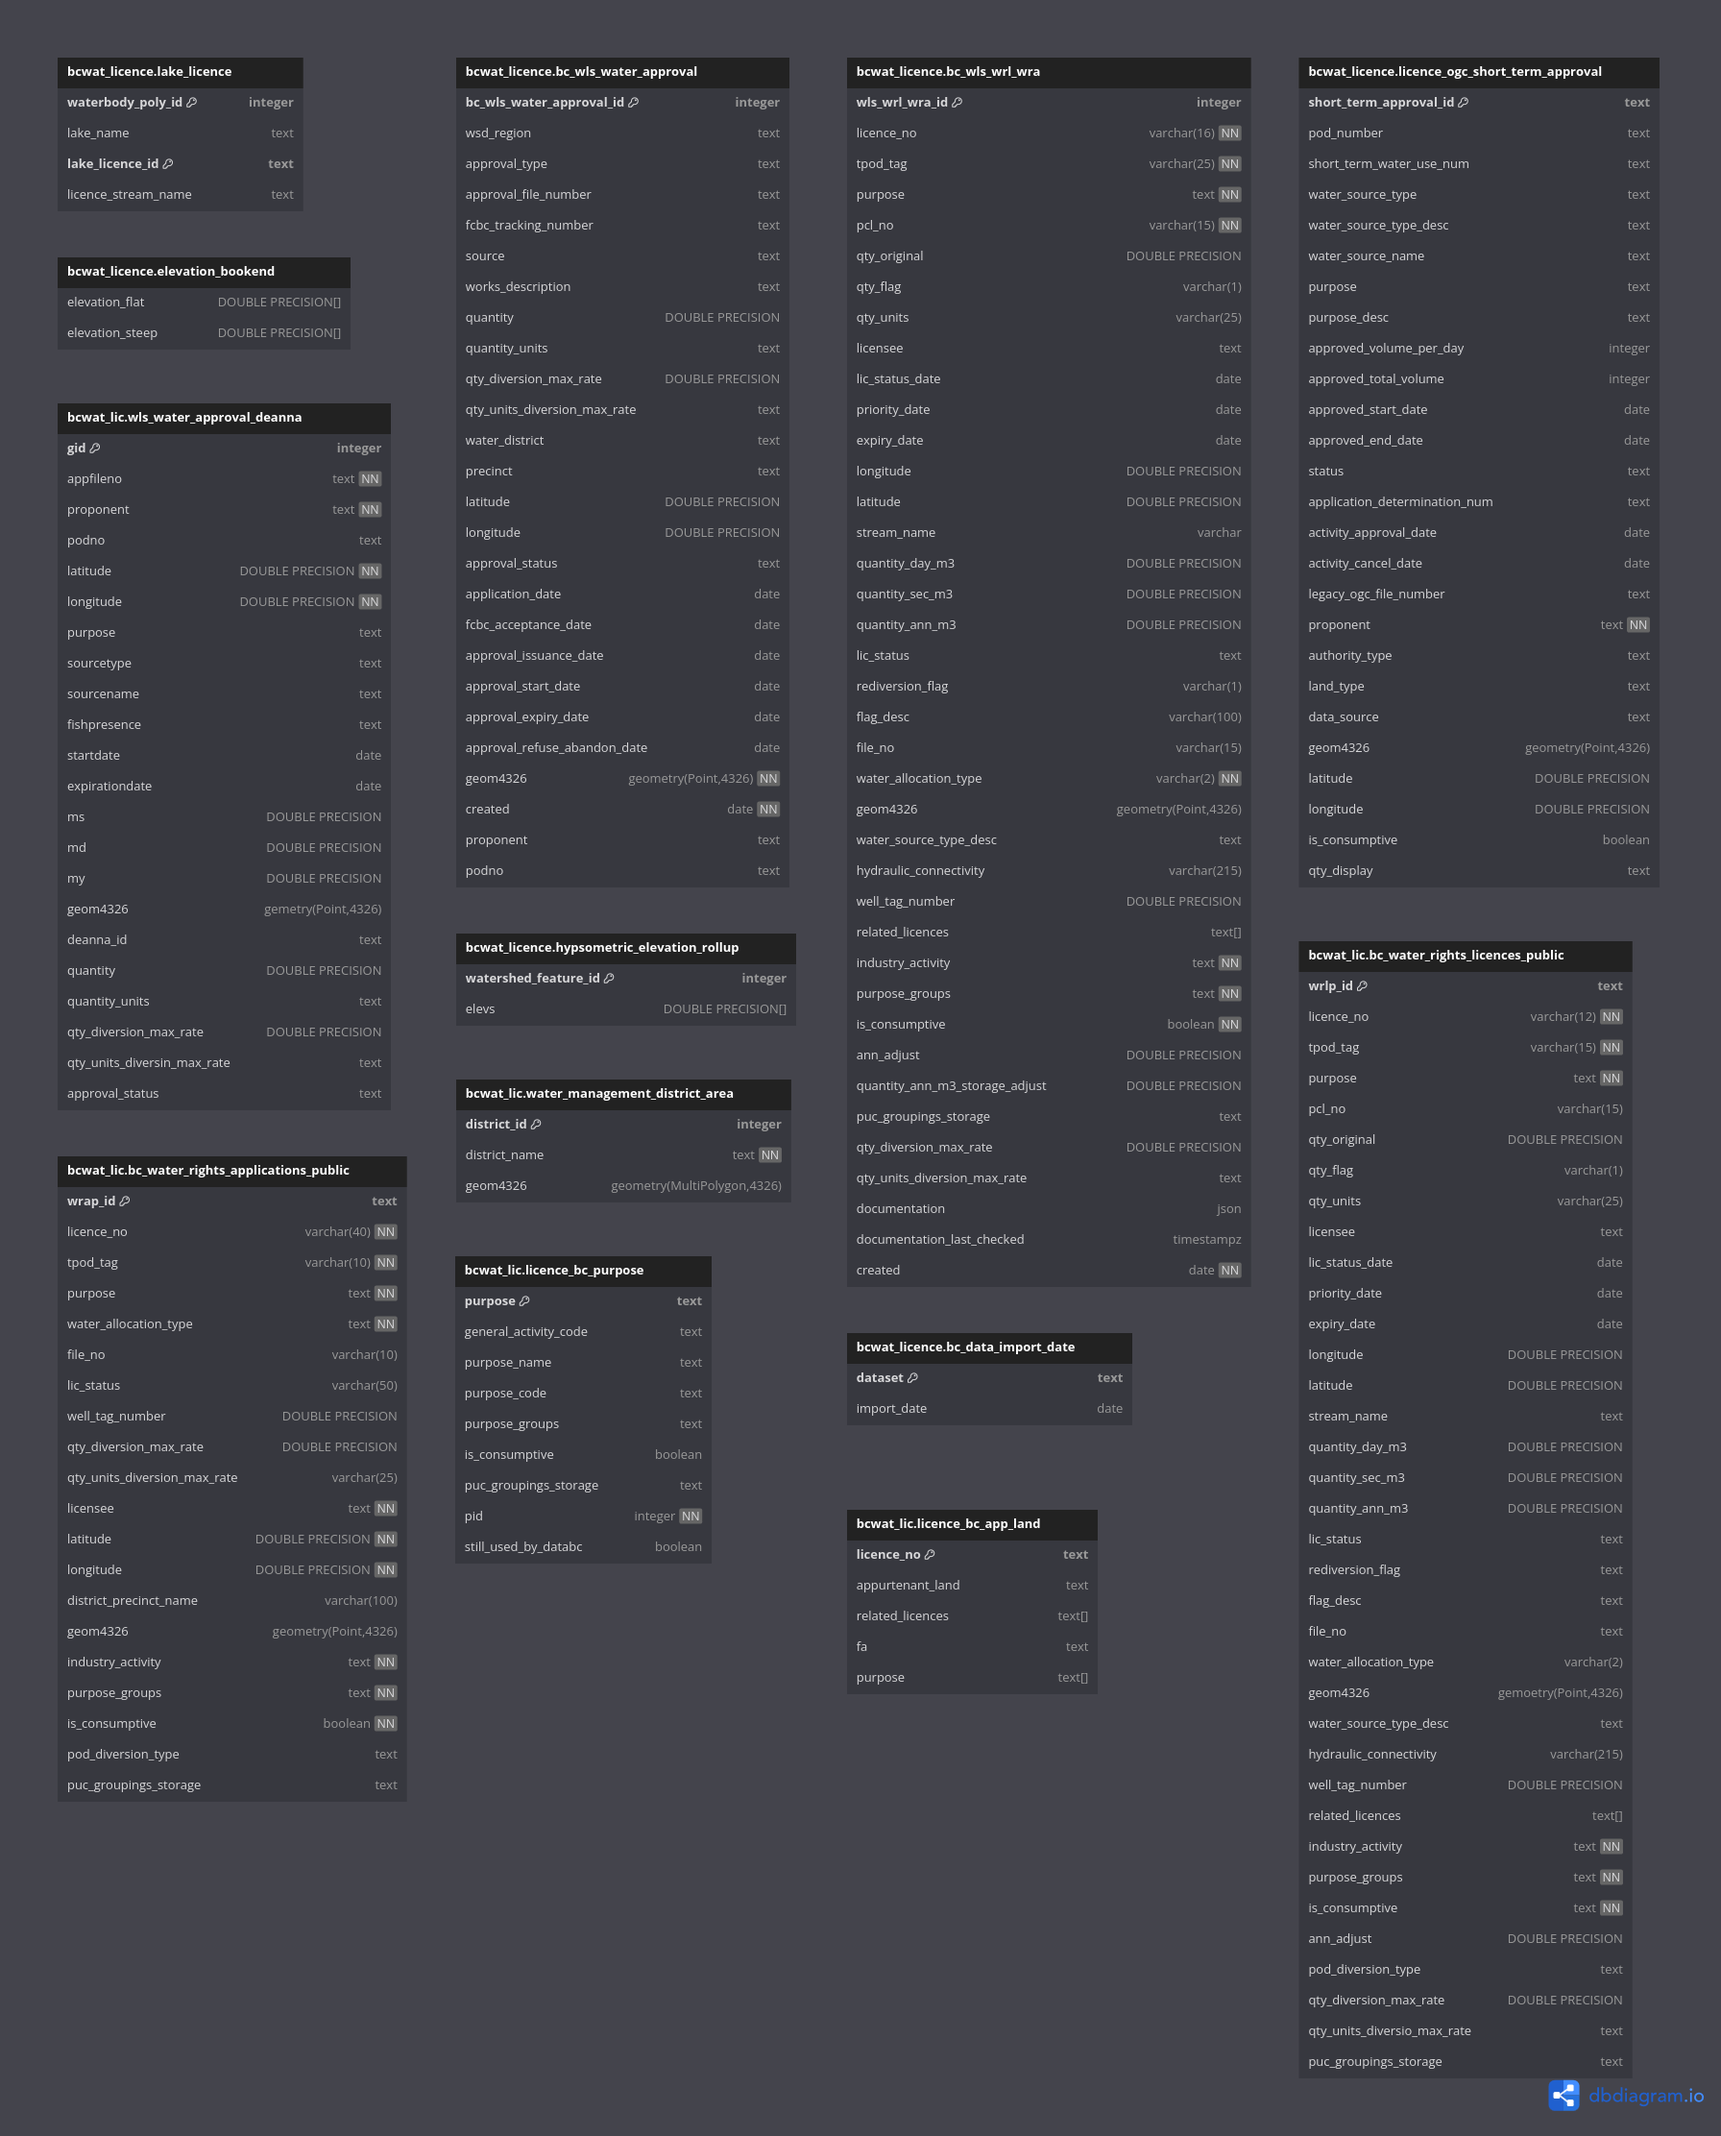
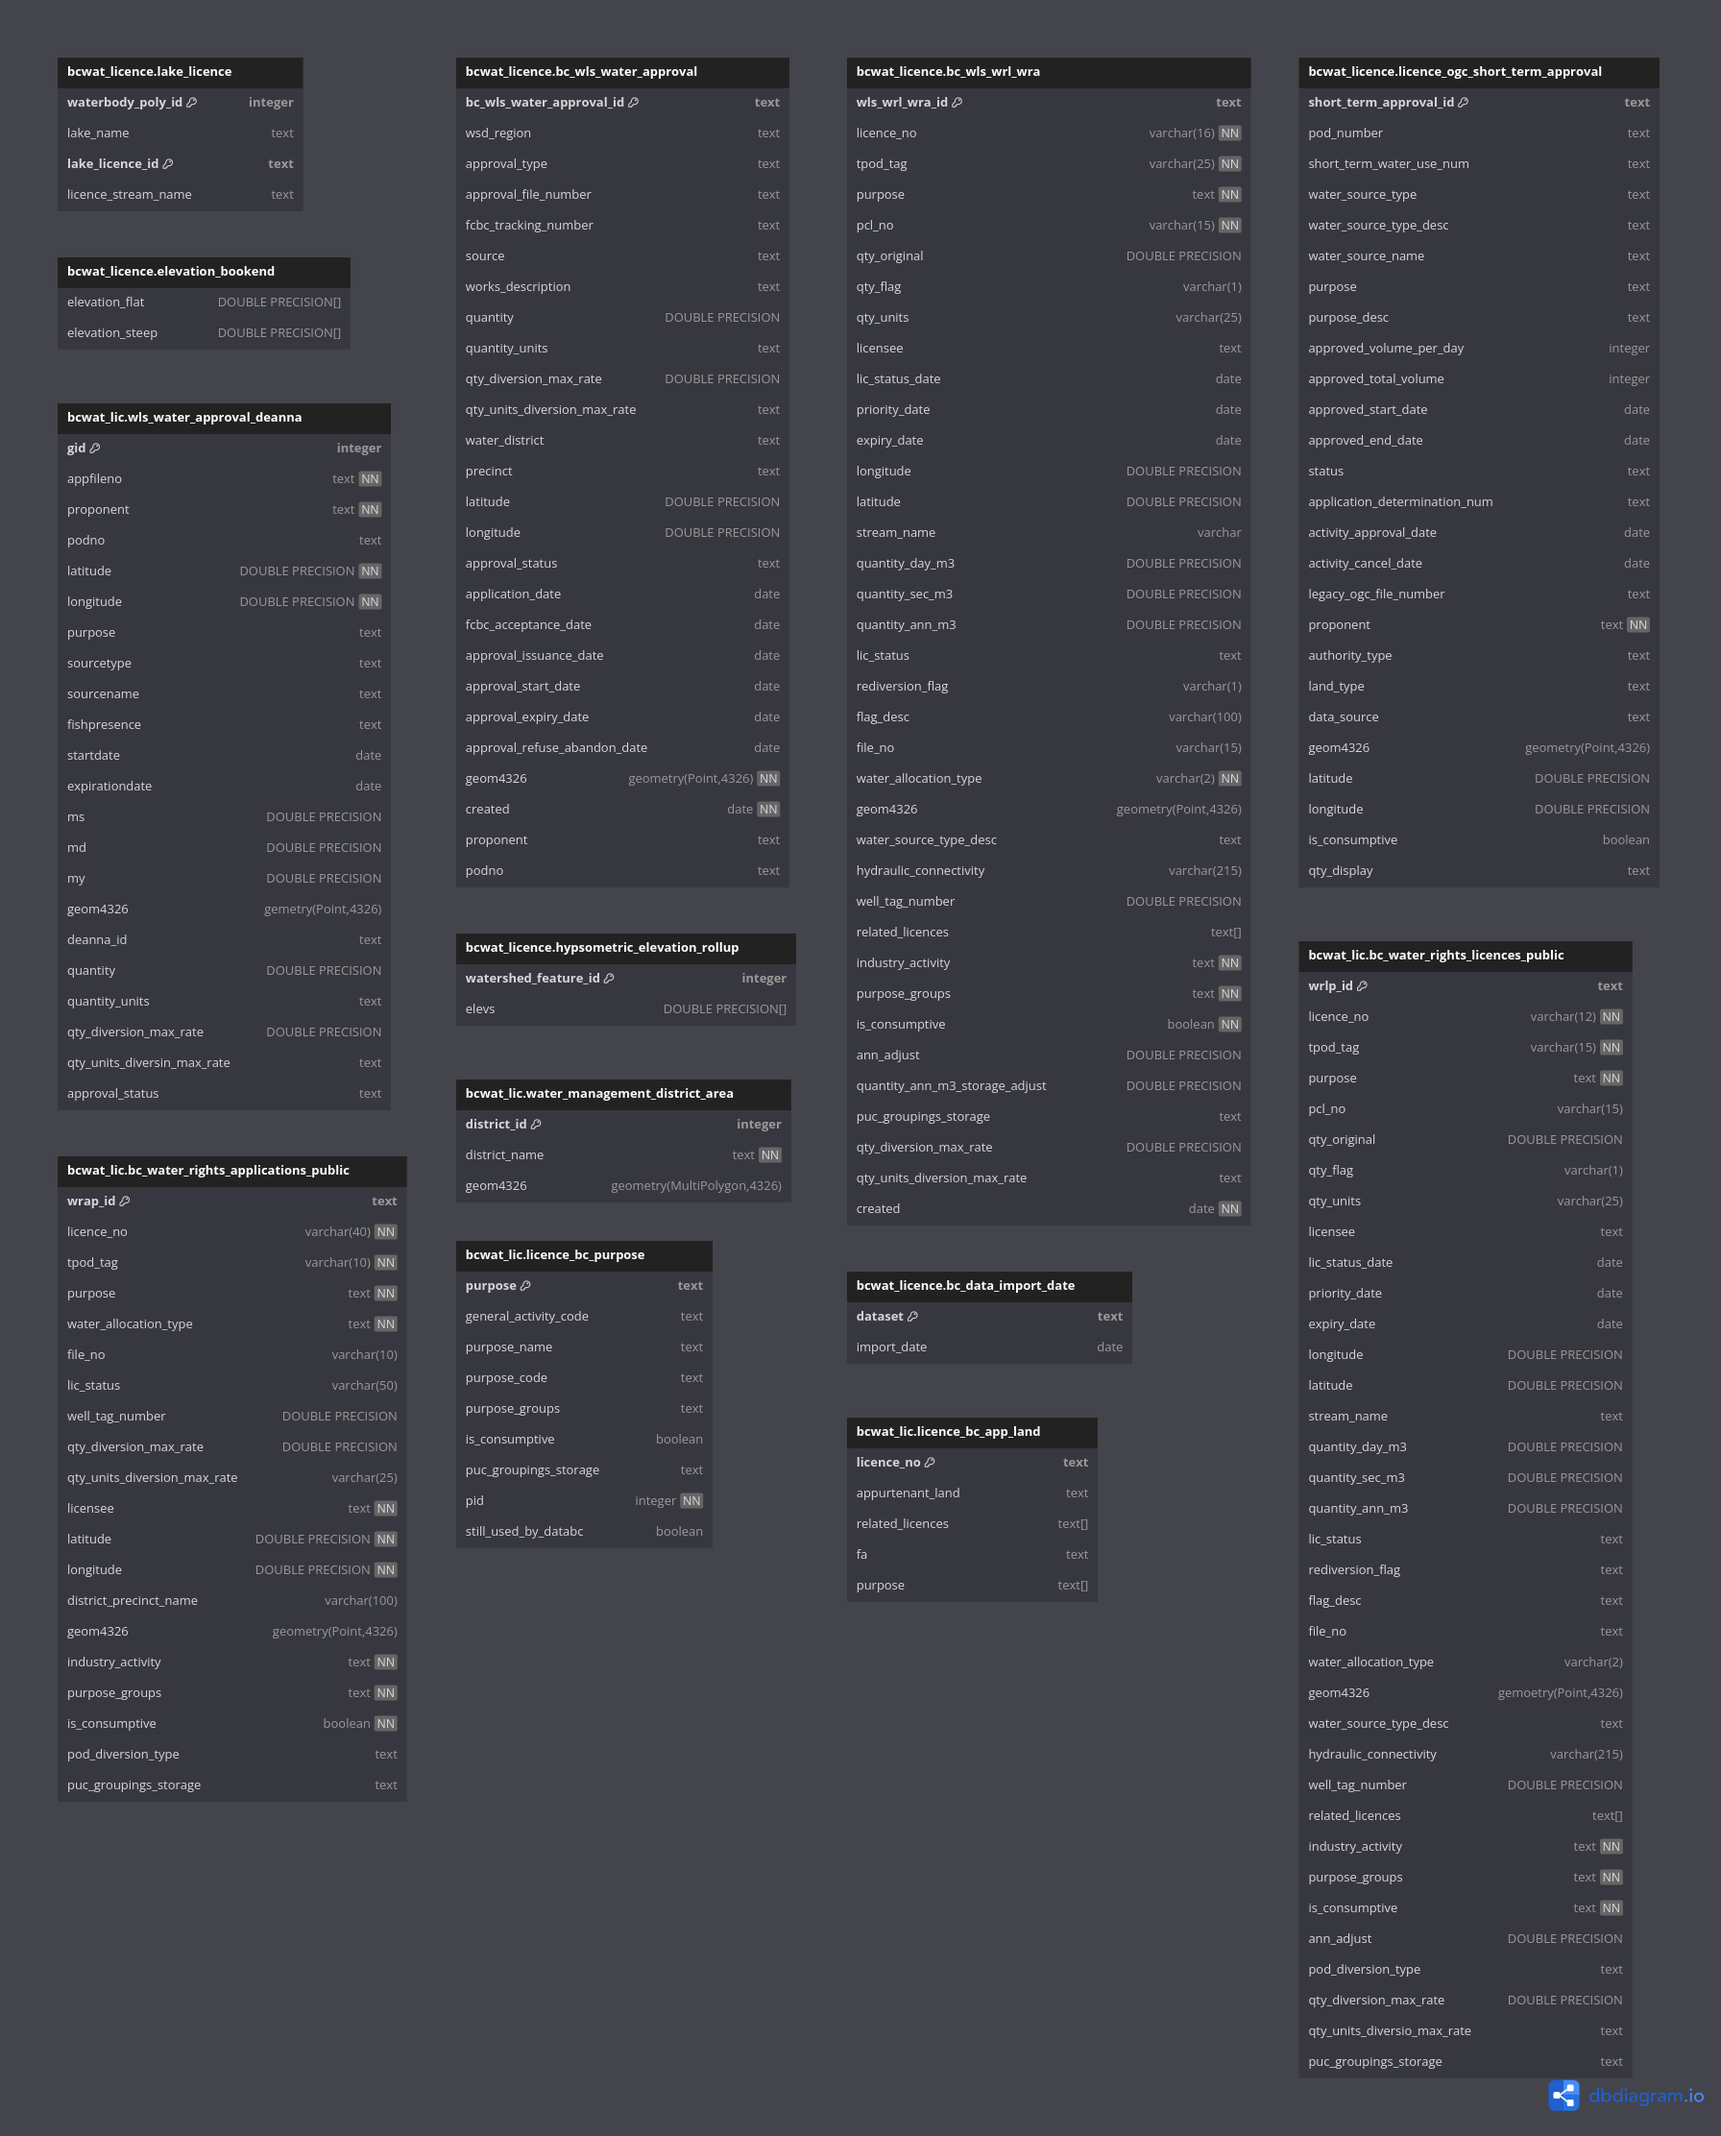
documentation and column type change

diff --git a/airflow/etl_pipelines/scrapers/DataBcPipeline/licences/water_approval_points.py b/airflow/etl_pipelines/scrapers/DataBcPipeline/licences/water_approval_points.py
@@ -69,13 +69,14 @@ class WaterApprovalPointsPipeline(DataBcPipeline):
             deanna_in_management_area = (
                 deanna_approvals
                 .st.sjoin(water_management_area, on="geom4326", how="inner", predicate="within")
+                .with_row_index("bc_wls_water_approval_id")
                 .with_columns(
                     wsd_region = pl.col("district_name"),
                     water_district = pl.col("district_name"),
-                    approval_type = pl.lit("STU")
+                    approval_type = pl.lit("STU"),
+                    bc_wls_water_approval_id = pl.col("bc_wls_water_approval_id").cast(pl.String) + pl.lit("_wa")
                 )
                 # Adding the polars row index as the bc_wls_water_approval_id
-                .with_row_index("bc_wls_water_approval_id")
                 .select(
                     pl.col("bc_wls_water_approval_id"),
                     pl.col("wsd_region"),
@@ -111,6 +112,7 @@ class WaterApprovalPointsPipeline(DataBcPipeline):
                     ).name.keep(),
                     cs.by_name("approval_issuance_date", "approval_refuse_abandon_date").str.slice(offset=0, length=10).name.keep()
                 )
+                .with_row_index("bc_wls_water_approval_id", offset=deanna_in_management_area.shape[0]+1)
                 .with_columns(
                     # Transform to 4326 since they are originally in 3005
                     geom4326 = pl.col("geometry").st.to_srid(4326),
@@ -133,10 +135,10 @@ class WaterApprovalPointsPipeline(DataBcPipeline):
                         .when(pl.col("qty_units_diversion_max_rate") == pl.lit("m3/s")).then(pl.lit("m3/sec"))
                         .when(pl.col("qty_units_diversion_max_rate") == pl.lit("m3/d")).then(pl.lit("m3/day"))
                         .otherwise(pl.col("qty_units_diversion_max_rate"))
-                    )
+                    ),
+                    bc_wls_water_approval_id = pl.col("bc_wls_water_approval_id").cast(pl.String) + pl.lit("_wa")
                 )
                 # Add polars row index as bc_wls_water_approval_id, offset by the number of rows in deanna_in_management_area
-                .with_row_index("bc_wls_water_approval_id", offset=deanna_in_management_area.shape[0]+1)
                 .filter(
                     (pl.col("approval_type") == pl.lit("STU")) &
                     (pl.col("approval_status") == pl.lit("Current")) &

diff --git a/backend/database_initialization/queries/bcwat_licence_erd_diagram.py b/backend/database_initialization/queries/bcwat_licence_erd_diagram.py
@@ -13,7 +13,7 @@ bcwat_lic_query = '''
     );
 
     CREATE TABLE "bcwat_lic"."bc_wls_water_approval" (
-    "bc_wls_water_approval_id" integer PRIMARY KEY,
+    "bc_wls_water_approval_id" text PRIMARY KEY,
     "wsd_region" text DEFAULT '',
     "approval_type" text DEFAULT '',
     "approval_file_number" text DEFAULT '',
@@ -78,9 +78,7 @@ bcwat_lic_query = '''
     "quantity_ann_m3_storage_adjust" DOUBLE PRECISION DEFAULT NULL,
     "puc_groupings_storage" text DEFAULT '',
     "qty_diversion_max_rate" DOUBLE PRECISION,
-    "qty_units_diversion_max_rate" text,
-    "documentation" json,
-    "documentation_last_checked" timestamp with time zone
+    "qty_units_diversion_max_rate" text
     );
 
     CREATE TABLE "bcwat_lic"."licence_ogc_short_term_approval" (
@@ -124,7 +122,7 @@ bcwat_lic_query = '''
 
     CREATE TABLE "bcwat_lic"."bc_data_import_date" (
     "dataset" text PRIMARY KEY,
-    "import_date" date,
+    "import_date" date
     );
 
     CREATE TABLE IF NOT EXISTS "bcwat_lic"."licence_bc_purpose" (

diff --git a/backend/database_initialization/queries/bcwat_licence_data.py b/backend/database_initialization/queries/bcwat_licence_data.py
@@ -77,8 +77,6 @@ bc_wls_wrl_wra = """
         puc_groupings_storage,
         qty_diversion_max_rate,
         qty_units_diversion_max_rate,
-        documentation,
-        documentation_last_checked
     FROM
         water_licences.bc_wls_wrl_wra;
 """
@@ -127,7 +125,7 @@ wls_water_approvals_deanna = """
 
 bc_water_approvals = """
     SELECT
-        id AS bc_wls_water_approval_id,
+        fs_id AS bc_wls_water_approval_id,
         wsd_region,
         approval_type,
         approval_file_number,

diff --git a/backend/database_initialization/transfer_table.py b/backend/database_initialization/transfer_table.py
@@ -18,7 +18,7 @@ args = parser.parse_args()
 if __name__=='__main__':
     setup_logging()
 
-    # if args.recreate_db:
-    #     recreate_db_schemas()
+    if args.recreate_db:
+        recreate_db_schemas()
     if args.non_scraped:
         import_non_scraped_data()
